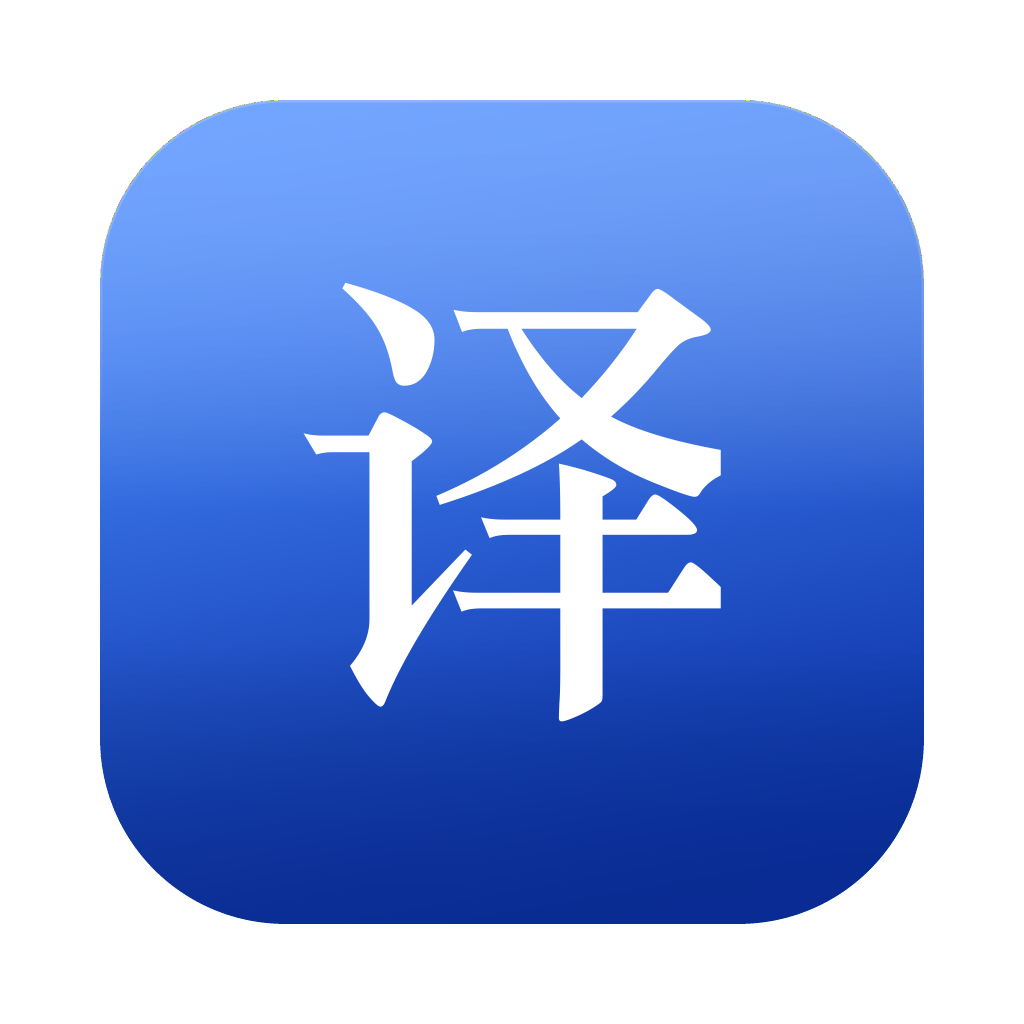
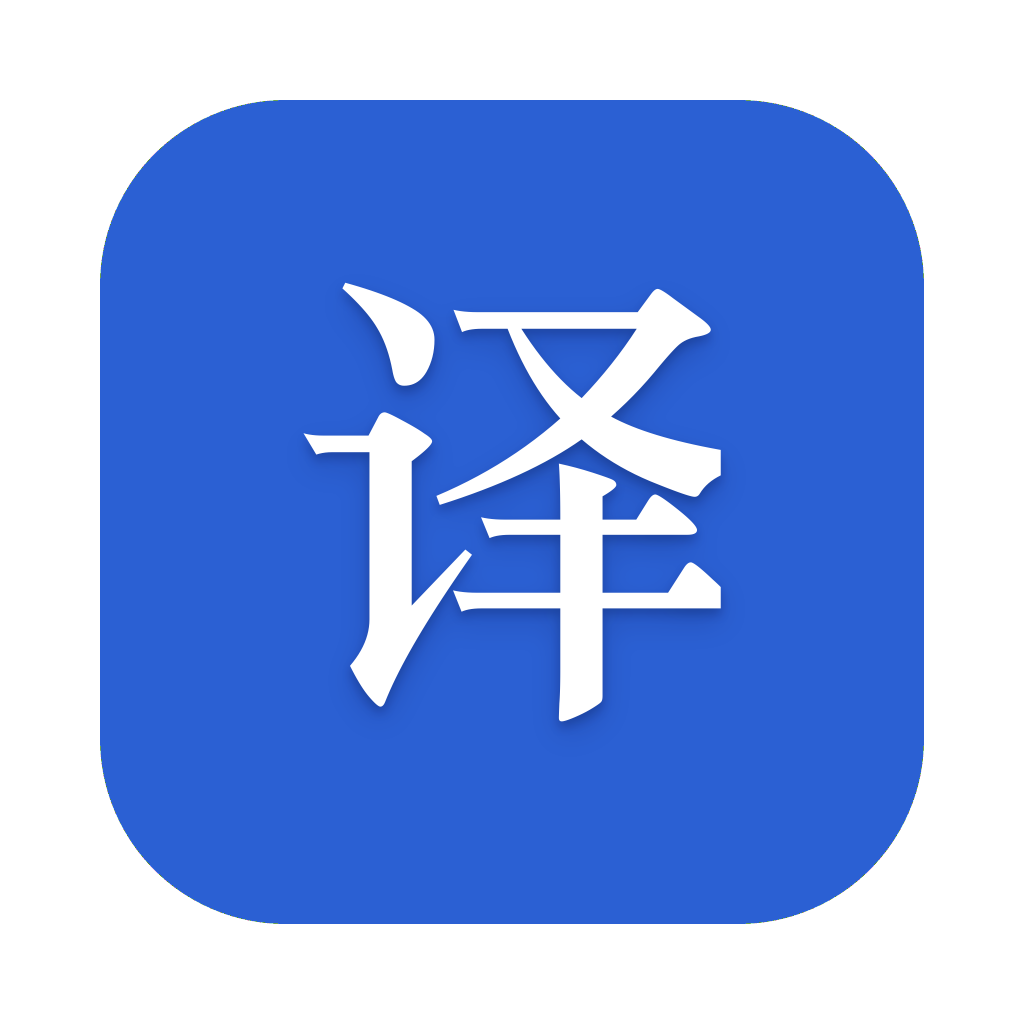
图标换纯色底，字加柔和投影
去掉原来的蓝色渐变和顶部高光，改成单一纯色 #2b60d3 铺满圆角方；
「译」字下方叠两层模糊投影（贴字紧、外圈散），Dock 小尺寸下不至于
像贴纸。tools/icongen 相应删掉渐变/高光蒙版逻辑，参数换成 -bg 与
-tshadow，README 同步。

diff --git a/tools/icongen/main.go b/tools/icongen/main.go
@@ -1,7 +1,8 @@
-// Command icongen 画出应用图标：一块蓝色圆角方，中间一个白色的宋体「译」。
+// Command icongen 画出应用图标：一块纯色圆角方，中间一个白色的宋体「译」。
 //
 //	go run ./tools/icongen                 # 写 resources/icon.png
 //	go run ./tools/icongen -o /tmp/i.png   # 换个地方看效果
+//	go run ./tools/icongen -bg '#1f6feb'   # 换底色
 //
 // 所有形状都在 4 倍画布上画完再缩回 1024，圆角与笔画边缘都是干净的。
 // 字体用系统的 Songti SC（宋体），字形按墨迹外接框居中。
@@ -35,11 +36,11 @@ const (
 	ss = 4 // 超采样倍数
 )
 
-// style 是一张图的样子：渐变的两个端点，加上高光与字的比例。
+// style 是一张图的样子：纯色底，加上字的大小。
 type style struct {
-	top, bottom color.NRGBA
-	sheen       float64 // 顶部高光的 alpha
-	ink         float64 // 字墨迹的高度，相对图标边长
+	bg     color.NRGBA
+	ink    float64 // 字墨迹的高度，相对图标边长
+	shadow float64 // 字下方投影的 alpha（0 关闭）
 }
 
 func main() {
@@ -49,16 +50,14 @@ func main() {
 	fontFace := flag.String("face", "Songti SC Bold", "TTC 里的字体全名")
 	char := flag.String("char", "译", "中间的字")
 	ink := flag.Float64("ink", 0.43, "字的墨迹高度，相对图标边长")
-	sheen := flag.Float64("sheen", 0x38, "顶部高光的 alpha（0-255）")
-	topHex := flag.String("top", "#4c8dff", "渐变起点颜色")
-	bottomHex := flag.String("bottom", "#0b33a8", "渐变终点颜色")
+	bgHex := flag.String("bg", "#2b60d3", "底色（纯色，不渐变）")
+	tshadow := flag.Float64("tshadow", 0x4e, "字的投影 alpha（0 关闭）")
 	flag.Parse()
 
 	st := style{
-		top:    parseHex(*topHex),
-		bottom: parseHex(*bottomHex),
-		sheen:  *sheen,
+		bg:     parseHex(*bgHex),
 		ink:    *ink,
+		shadow: *tshadow,
 	}
 	img := resize(render(*fontPath, *fontFace, *char, st), *size)
 
@@ -90,32 +89,17 @@ func render(fontPath, faceName, char string, st style) *image.RGBA {
 	shadow := blur(body, 24*ss, 3)
 	paint(canvas, color.NRGBA{0x0a, 0x1c, 0x50, 0x66}, shadow, 0, 10*ss)
 
-	// 底色渐变，自上而下略向右倾。
-	draw.DrawMask(canvas, canvas.Bounds(),
-		gradient(n, st.top, st.bottom, 0.18, 1, inset, float64(n)-inset),
+	// 纯色底，一个颜色铺满，没有任何渐变或高光。
+	draw.DrawMask(canvas, canvas.Bounds(), image.NewUniform(st.bg),
 		image.Point{}, body, image.Point{}, draw.Src)
 
-	// 顶部一层白，像光从左上方打过来；底部压一点暗，别太扁平。
-	draw.DrawMask(canvas, canvas.Bounds(), image.NewUniform(color.NRGBA{0xff, 0xff, 0xff, 0xff}),
-		image.Point{}, intersect(verticalFade(n, inset, inset+0.5*(float64(n)-2*inset), st.sheen), body),
-		image.Point{}, draw.Over)
-	draw.DrawMask(canvas, canvas.Bounds(), image.NewUniform(color.NRGBA{0x00, 0x0a, 0x33, 0xff}),
-		image.Point{}, intersect(verticalFade(n, float64(n)-inset, float64(n)-inset-0.35*(float64(n)-2*inset), 0x30), body),
-		image.Point{}, draw.Over)
-
-	// 顶部一圈细高光，把边勾出来，缩到 Dock 尺寸时轮廓更清楚。
-	ring := subtract(body, roundedRect(n, inset+2.5*ss, float64(n)-inset-2.5*ss, radius-2.5*ss))
-	draw.DrawMask(canvas, canvas.Bounds(), image.NewUniform(color.NRGBA{0xff, 0xff, 0xff, 0xff}),
-		image.Point{}, intersect(verticalFade(n, inset, inset+0.42*(float64(n)-2*inset), 0x2e), ring),
-		image.Point{}, draw.Over)
-
-	drawChar(canvas, fontPath, faceName, char, st.ink)
+	drawChar(canvas, fontPath, faceName, char, st.ink, st.shadow)
 
 	return canvas
 }
 
-// drawChar 把汉字按墨迹外接框居中画到画布上。
-func drawChar(dst *image.RGBA, fontPath, faceName, char string, ink float64) {
+// drawChar 把汉字按墨迹外接框居中画到画布上，字下方带一层柔和的投影。
+func drawChar(dst *image.RGBA, fontPath, faceName, char string, ink, shadowAlpha float64) {
 	data, err := os.ReadFile(fontPath)
 	if err != nil {
 		log.Fatalf("读字体 %s: %v", fontPath, err)
@@ -145,9 +129,24 @@ func drawChar(dst *image.RGBA, fontPath, faceName, char string, ink float64) {
 	dx := n.Dx()/2 - (b.Min.X+b.Max.X)/2
 	dy := n.Dy()/2 - (b.Min.Y+b.Max.Y)/2 - n.Dy()/100
 
-	layer := image.NewRGBA(n)
-	draw.DrawMask(layer, n, image.NewUniform(color.NRGBA{0xff, 0xff, 0xff, 0xff}), image.Point{}, mask, image.Point{}, draw.Over)
-	draw.Draw(dst, n, shifted(layer, dx, dy), image.Point{}, draw.Over)
+	// 字的 alpha 落到整张画布上，投影和字本身都从它来。
+	glyph := image.NewAlpha(n)
+	draw.DrawMask(glyph, n.Add(image.Pt(dx, dy)), image.NewUniform(color.Alpha{0xff}),
+		image.Point{}, mask, image.Point{}, draw.Over)
+
+	if shadowAlpha > 0 {
+		// 投影分两层：贴字的一层紧、外圈一层散，叠起来才不会像把字复制了一份。
+		// 半径都按画布比例走，4 倍超采样画布和最终的 1024 看起来是同一层。
+		h := float64(n.Dy())
+		shade := func(a float64) color.NRGBA {
+			return color.NRGBA{0x00, 0x0c, 0x38, uint8(math.Round(shadowAlpha * a))}
+		}
+		paint(dst, shade(0.55), blur(glyph, 0.042*h, 3), 0, int(math.Round(0.013*h)))
+		paint(dst, shade(0.75), blur(glyph, 0.011*h, 2), 0, int(math.Round(0.006*h)))
+	}
+
+	draw.DrawMask(dst, n, image.NewUniform(color.NRGBA{0xff, 0xff, 0xff, 0xff}),
+		image.Point{}, glyph, image.Point{}, draw.Over)
 }
 
 // renderChar 在给定字号下把字画成 alpha 蒙版，字大致落在画布中央，
@@ -229,70 +228,6 @@ func roundedRect(n int, inset, end, r float64) *image.Alpha {
 	return m
 }
 
-// gradient 生成沿 (dx, dy) 从 a 到 b 的线性渐变，范围是 [lo, hi] 的方块。
-func gradient(n int, a, b color.NRGBA, dx, dy, lo, hi float64) *image.RGBA {
-	l := math.Hypot(dx, dy)
-	dx, dy = dx/l, dy/l
-	proj := func(x, y float64) float64 { return (x-lo)*dx + (y-lo)*dy }
-	minP, maxP := math.Inf(1), math.Inf(-1)
-	for _, c := range [][2]float64{{lo, lo}, {hi, lo}, {lo, hi}, {hi, hi}} {
-		p := proj(c[0], c[1])
-		minP, maxP = math.Min(minP, p), math.Max(maxP, p)
-	}
-
-	g := image.NewRGBA(image.Rect(0, 0, n, n))
-	for y := 0; y < n; y++ {
-		for x := 0; x < n; x++ {
-			t := (proj(float64(x)+0.5, float64(y)+0.5) - minP) / (maxP - minP)
-			t = math.Min(math.Max(t, 0), 1)
-			t = t * t * (3 - 2*t) // smoothstep，两端过渡更柔
-			c := lerp(a, b, t)
-			i := g.PixOffset(x, y)
-			g.Pix[i+0], g.Pix[i+1], g.Pix[i+2], g.Pix[i+3] = c.R, c.G, c.B, 0xff
-		}
-	}
-	return g
-}
-
-// verticalFade 从 y0 的 alpha 渐隐到 y1 的 0；反向则从 0 渐显。
-func verticalFade(n int, y0, y1, alpha float64) *image.Alpha {
-	m := image.NewAlpha(image.Rect(0, 0, n, n))
-	for y := 0; y < n; y++ {
-		f := float64(y) + 0.5
-		t := (f - y0) / (y1 - y0)
-		t = math.Min(math.Max(t, 0), 1)
-		a := alpha * (1 - t*t)
-		for x := 0; x < n; x++ {
-			m.Pix[y*m.Stride+x] = uint8(a)
-		}
-	}
-	return m
-}
-
-// intersect 取两张蒙版里较小的 alpha。
-func intersect(a, b *image.Alpha) *image.Alpha {
-	n := a.Bounds()
-	out := image.NewAlpha(n)
-	for y := 0; y < n.Dy(); y++ {
-		for x := 0; x < n.Dx(); x++ {
-			out.Pix[y*out.Stride+x] = min(a.Pix[y*a.Stride+x], b.Pix[y*b.Stride+x])
-		}
-	}
-	return out
-}
-
-// subtract 返回 a 里挖掉 b 的部分。
-func subtract(a, b *image.Alpha) *image.Alpha {
-	n := a.Bounds()
-	out := image.NewAlpha(n)
-	for y := 0; y < n.Dy(); y++ {
-		for x := 0; x < n.Dx(); x++ {
-			out.Pix[y*out.Stride+x] = uint8(int(a.Pix[y*a.Stride+x]) * (255 - int(b.Pix[y*b.Stride+x])) / 255)
-		}
-	}
-	return out
-}
-
 // parseHex 读 #rrggbb。
 func parseHex(s string) color.NRGBA {
 	var r, g, b uint8
@@ -300,15 +235,6 @@ func parseHex(s string) color.NRGBA {
 		log.Fatalf("颜色 %q 不是 #rrggbb: %v", s, err)
 	}
 	return color.NRGBA{r, g, b, 0xff}
-}
-
-func lerp(a, b color.NRGBA, t float64) color.NRGBA {
-	return color.NRGBA{
-		uint8(float64(a.R) + (float64(b.R)-float64(a.R))*t),
-		uint8(float64(a.G) + (float64(b.G)-float64(a.G))*t),
-		uint8(float64(a.B) + (float64(b.B)-float64(a.B))*t),
-		0xff,
-	}
 }
 
 // paint 把颜色 c 以 mask 的 alpha 叠到 dst 上，可带偏移。

diff --git a/README.md b/README.md
@@ -26,13 +26,14 @@ go test ./...        # 跑测试
 
 ## 图标
 
-`resources/icon.png` 是 1024×1024 的图：一块蓝色圆角方，中间一个白色的宋体「译」。方块按 macOS 的图标网格画（824 居中、圆角 185），`mygo build` 会把它编成 `.icns` 放进 `.app`，也是 dmg 的卷图标。
+`resources/icon.png` 是 1024×1024 的图：一块纯色蓝（`#2b60d3`）的圆角方，中间一个白色的宋体「译」。底色是平的，没有渐变也没有高光；字下方压着一层柔和的投影（贴字紧、外圈散，共两层）。方块按 macOS 的图标网格画（824 居中、圆角 185），`mygo build` 会把它编成 `.icns` 放进 `.app`，也是 dmg 的卷图标。
 
 图是代码画出来的，不是手工导出的，改了要重跑：
 
 ```bash
-go run ./tools/icongen                        # 写 resources/icon.png
-go run ./tools/icongen -ink 0.40 -top '#3f83ff' -bottom '#0a2f9e'
+go run ./tools/icongen                            # 写 resources/icon.png
+go run ./tools/icongen -bg '#1f6feb'              # 换底色
+go run ./tools/icongen -ink 0.40 -tshadow 0       # 字放大一点、去掉字投影
 ```
 
 字形取自系统的 Songti SC（`/System/Library/Fonts/Supplemental/Songti.ttc`），`-face` 换字重、`-char` 换字。为了小尺寸下笔画不糊，字重用的是 Bold，字按墨迹外接框居中而不是按字身框。
